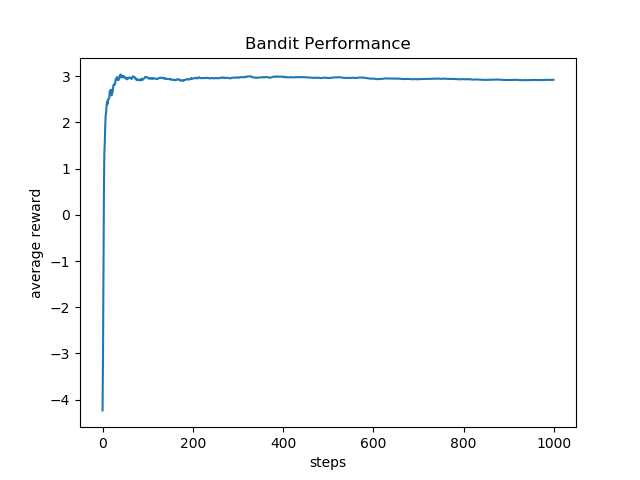
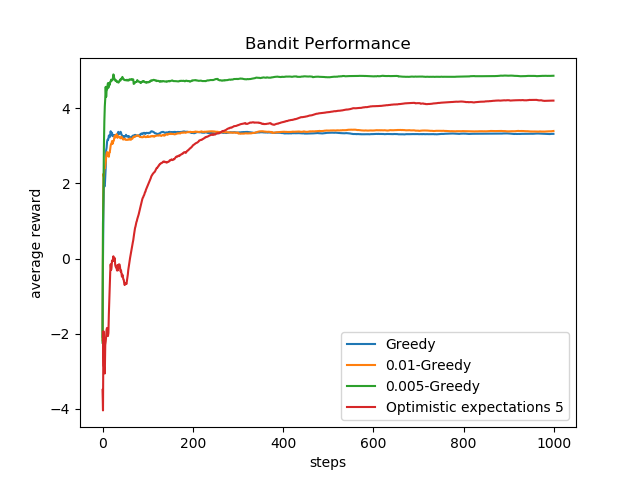
labels for bandits in graph

diff --git a/algorithms_tabular/bandits.py b/algorithms_tabular/bandits.py
@@ -21,18 +21,23 @@ class Game:
 
 # plot performance
 def plot_performance(rewards: List[List[float]],
+                     labels: List[str] = [],
                      title: str = 'Bandit Performance'):
-    for reward in rewards:
-        plt.plot(range(len(reward)), reward)
+    for index, reward in enumerate(rewards):
+        if len(labels) == 0:
+            plt.plot(reward, label=index)
+        else:
+            plt.plot(reward, label=labels[index])
     plt.xlabel('steps')
     plt.ylabel('average reward')
     plt.title(title)
+    plt.legend()
     plt.savefig('./bandit_performance/' + title + '.png')
 
 
 # Greedy bandit
-def greedy(steps: int, epsilon: float = 0, init_Q: List[float] = [0] * 100) -> List[float]:
-    game = Game(100)
+def greedy(steps: int, epsilon: float = 0, init_Q: List[float] = [0] * 50) -> List[float]:
+    game = Game(50)
     Q = init_Q  # initialise value function
     rewards = []  # keep track of performance
 
@@ -56,7 +61,17 @@ def main():
     rewards = []
     steps = 1000
     rewards.append(greedy(steps))
-    plot_performance(rewards)
+    rewards.append(greedy(steps, 0.01))
+    rewards.append(greedy(steps, 0.005))
+    rewards.append(greedy(steps, init_Q=[5] * 50))
+
+    labels = [
+        'Greedy',
+        '0.01-Greedy',
+        '0.005-Greedy',
+        'Optimistic expectations 5'
+    ]
+    plot_performance(rewards, labels)
 
 
 if __name__ == '__main__':
